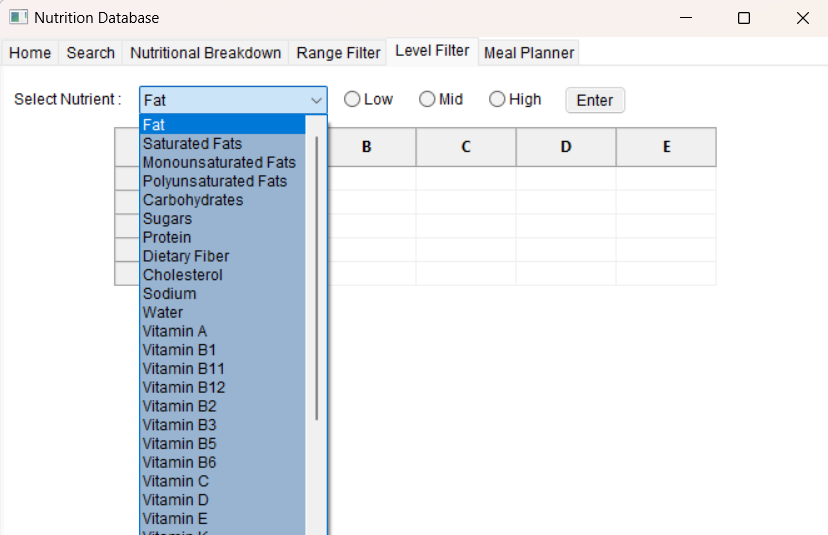
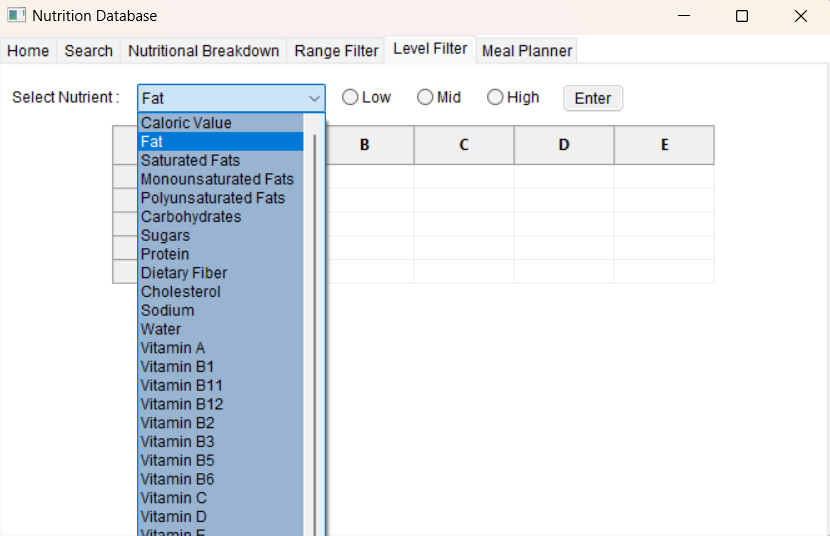
v_3.3

diff --git a/code/template_frame.py b/code/template_frame.py
@@ -161,9 +161,9 @@ class MyFrame1 ( wx.Frame ):
 
 		bSizerRangeTop.Add( self.m_staticTextSelectNutrientFilter, 0, wx.ALL, 8 )
 
-		m_choiceNutrientRangeChoices = [ u"Fat", u"Saturated Fats", u"Monounsaturated Fats", u"Polyunsaturated Fats", u"Carbohydrates", u"Sugars", u"Protein", u"Dietary Fiber", u"Cholesterol", u"Sodium", u"Water", u"Vitamin A", u"Vitamin B1", u"Vitamin B11", u"Vitamin B12", u"Vitamin B2", u"Vitamin B3", u"Vitamin B5", u"Vitamin B6", u"Vitamin C", u"Vitamin D", u"Vitamin E", u"Vitamin K", u"Calcium", u"Copper", u"Iron", u"Magnesium", u"Manganese", u"Phosphorus", u"Potassium", u"Selenium", u"Zinc", wx.EmptyString, wx.EmptyString, wx.EmptyString, wx.EmptyString, wx.EmptyString, wx.EmptyString, wx.EmptyString, wx.EmptyString, wx.EmptyString, wx.EmptyString, wx.EmptyString, wx.EmptyString, wx.EmptyString, wx.EmptyString, wx.EmptyString, wx.EmptyString, wx.EmptyString, wx.EmptyString, wx.EmptyString, wx.EmptyString, wx.EmptyString, wx.EmptyString, wx.EmptyString ]
+		m_choiceNutrientRangeChoices = [ u"Caloric Value", u"Fat", u"Saturated Fats", u"Monounsaturated Fats", u"Polyunsaturated Fats", u"Carbohydrates", u"Sugars", u"Protein", u"Dietary Fiber", u"Cholesterol", u"Sodium", u"Water", u"Vitamin A", u"Vitamin B1", u"Vitamin B11", u"Vitamin B12", u"Vitamin B2", u"Vitamin B3", u"Vitamin B5", u"Vitamin B6", u"Vitamin C", u"Vitamin D", u"Vitamin E", u"Vitamin K", u"Calcium", u"Copper", u"Iron", u"Magnesium", u"Manganese", u"Phosphorus", u"Potassium", u"Selenium", u"Zinc", u"Nutrition Density" ]
 		self.m_choiceNutrientRange = wx.Choice( self.m_panelRangeFilter, wx.ID_ANY, wx.DefaultPosition, wx.DefaultSize, m_choiceNutrientRangeChoices, 0 )
-		self.m_choiceNutrientRange.SetSelection( 0 )
+		self.m_choiceNutrientRange.SetSelection( 1 )
 		self.m_choiceNutrientRange.SetForegroundColour( wx.SystemSettings.GetColour( wx.SYS_COLOUR_BTNHIGHLIGHT ) )
 		self.m_choiceNutrientRange.SetBackgroundColour( wx.SystemSettings.GetColour( wx.SYS_COLOUR_ACTIVECAPTION ) )
 
@@ -239,9 +239,9 @@ class MyFrame1 ( wx.Frame ):
 
 		bSizerFilterTop.Add( self.m_staticTextSelectNutrientLevel, 0, wx.ALL, 8 )
 
-		m_choiceNutrientLevelChoices = [ u"Fat", u"Saturated Fats", u"Monounsaturated Fats", u"Polyunsaturated Fats", u"Carbohydrates", u"Sugars", u"Protein", u"Dietary Fiber", u"Cholesterol", u"Sodium", u"Water", u"Vitamin A", u"Vitamin B1", u"Vitamin B11", u"Vitamin B12", u"Vitamin B2", u"Vitamin B3", u"Vitamin B5", u"Vitamin B6", u"Vitamin C", u"Vitamin D", u"Vitamin E", u"Vitamin K", u"Calcium", u"Copper", u"Iron", u"Magnesium", u"Manganese", u"Phosphorus", u"Potassium", u"Selenium", u"Zinc", wx.EmptyString, wx.EmptyString, wx.EmptyString, wx.EmptyString, wx.EmptyString, wx.EmptyString, wx.EmptyString, wx.EmptyString, wx.EmptyString, wx.EmptyString, wx.EmptyString, wx.EmptyString, wx.EmptyString, wx.EmptyString, wx.EmptyString, wx.EmptyString, wx.EmptyString, wx.EmptyString, wx.EmptyString, wx.EmptyString, wx.EmptyString, wx.EmptyString, wx.EmptyString ]
+		m_choiceNutrientLevelChoices = [ u"Caloric Value", u"Fat", u"Saturated Fats", u"Monounsaturated Fats", u"Polyunsaturated Fats", u"Carbohydrates", u"Sugars", u"Protein", u"Dietary Fiber", u"Cholesterol", u"Sodium", u"Water", u"Vitamin A", u"Vitamin B1", u"Vitamin B11", u"Vitamin B12", u"Vitamin B2", u"Vitamin B3", u"Vitamin B5", u"Vitamin B6", u"Vitamin C", u"Vitamin D", u"Vitamin E", u"Vitamin K", u"Calcium", u"Copper", u"Iron", u"Magnesium", u"Manganese", u"Phosphorus", u"Potassium", u"Selenium", u"Zinc", u"Nutrition Density" ]
 		self.m_choiceNutrientLevel = wx.Choice( self.m_panelLevelFilter, wx.ID_ANY, wx.DefaultPosition, wx.DefaultSize, m_choiceNutrientLevelChoices, 0 )
-		self.m_choiceNutrientLevel.SetSelection( 0 )
+		self.m_choiceNutrientLevel.SetSelection( 1 )
 		self.m_choiceNutrientLevel.SetFont( wx.Font( wx.NORMAL_FONT.GetPointSize(), wx.FONTFAMILY_DEFAULT, wx.FONTSTYLE_NORMAL, wx.FONTWEIGHT_NORMAL, False, wx.EmptyString ) )
 		self.m_choiceNutrientLevel.SetForegroundColour( wx.SystemSettings.GetColour( wx.SYS_COLOUR_BTNTEXT ) )
 		self.m_choiceNutrientLevel.SetBackgroundColour( wx.SystemSettings.GetColour( wx.SYS_COLOUR_ACTIVECAPTION ) )

diff --git a/code/all_functions.py b/code/all_functions.py
@@ -112,11 +112,12 @@ def generate_meal_plan(meal_plan, food_name, quantity):
     return food_name, quantity
 
 def generate_total_calories(meal_plan):
-    if not meal_plan:
-        raise ValueError
-
-    global df
     c_total = 0
+    global df
+
+    if not meal_plan:
+        return c_total
+
     for key, value in meal_plan.items():
         food_row = df[df['food'] == key].iloc[0]
         caloric_value = food_row['Caloric Value']
